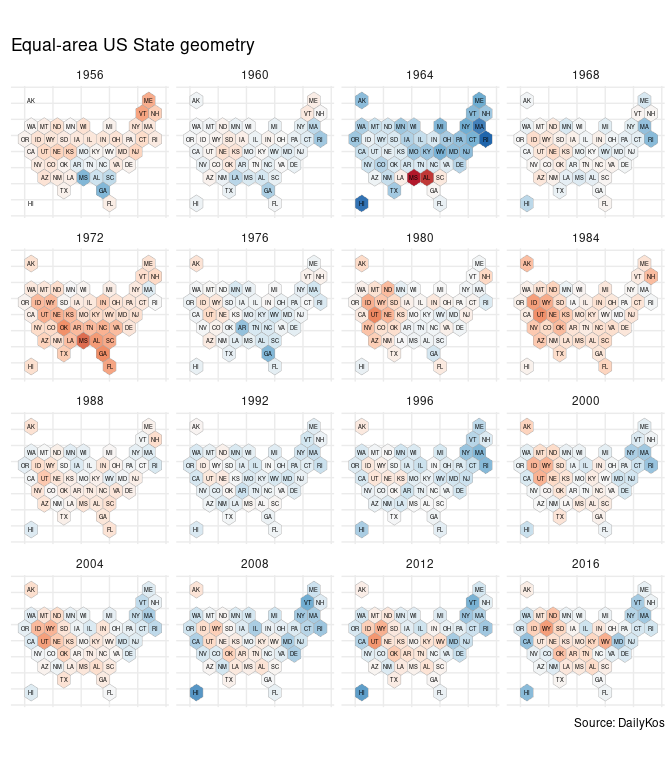
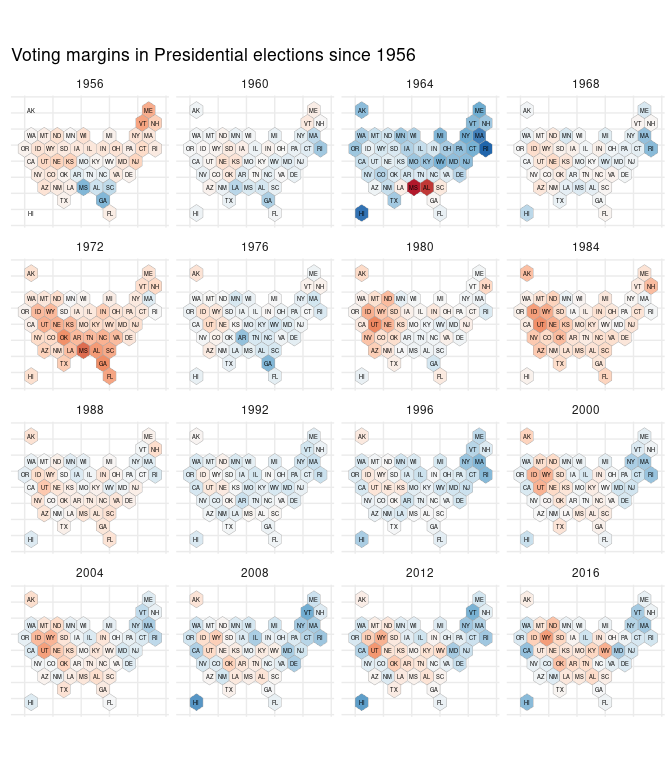
re

diff --git a/all-the-newness.md b/all-the-newness.md
@@ -6,9 +6,9 @@ American political data & R
 ![](all-the-newness_files/figure-markdown_github/collage1.png)
 
 **An R-based guide** to accessing, exploring & visualizing US political
-data utilizing a collection of open resources, including election
-returns for presidential and congressional races, lawmaker political
-ideologies, and congressional district demographics.
+data utilizing a collection of publicly available resources, including
+election returns for presidential and congressional races, lawmaker
+political ideologies, and congressional district demographics.
 
 Data used in this guide have been collated from [Daily
 Kos](https://www.dailykos.com/), [MIT Election Data and Science
@@ -30,8 +30,8 @@ work presented here can be reproduced in its entirety.
         -   [uspols](#uspols)
     -   [Historical presidential election
         results](#historical-presidential-election-results)
-        -   [V1 Margins of victory since
-            1956](#v1-margins-of-victory-since-1956)
+        -   [V1 Voting margins in Presidential elections since
+            1956](#v1-voting-margins-in-presidential-elections-since-1956)
         -   [V2 When each state last voted for a Democratic presidential
             nominee](#v2-when-each-state-last-voted-for-a-democratic-presidential-nominee)
         -   [V3 Presidential elections and vote shares and crosses of
@@ -61,15 +61,15 @@ work presented here can be reproduced in its entirety.
             Xers](#v12-introducing-millenials-and-gen-xers)
     -   [Congressional districts and the
         ACS](#congressional-districts-and-the-acs)
-        -   [V13 Profiling New Mexico 2nd
-            district](#v13-profiling-new-mexico-2nd-district)
-        -   [V14 SocioDems and margins of
-            victory](#v14-sociodems-and-margins-of-victory)
-        -   [V15 Some notes on rural
-            America](#v15-some-notes-on-rural-america)
-    -   [The White working class](#the-white-working-class)
+        -   [V13 Profiling congressional
+            districts](#v13-profiling-congressional-districts)
+        -   [V14 ACS variables and margins of
+            victory](#v14-acs-variables-and-margins-of-victory)
+    -   [America’s White working class](#america's-white-working-class)
         -   [V15 White working profiles](#v15-white-working-profiles)
         -   [V16 A working map](#v16-a-working-map)
+        -   [V17 White working class and rural
+            America](#v17-white-working-class-and-rural-america)
     -   [Lastly](#lastly)
 
 Quick preliminaries
@@ -190,8 +190,8 @@ vvo <- lapply(c('house', 'senate'), function(x) {
     filter(congress > 66 & chamber != 'President') })
 ```
 
-    ## [1] "/tmp/RtmpFuJnTA/Hall_members.csv"
-    ## [1] "/tmp/RtmpFuJnTA/Sall_members.csv"
+    ## [1] "/tmp/Rtmpv6DDsz/Hall_members.csv"
+    ## [1] "/tmp/Rtmpv6DDsz/Sall_members.csv"
 
 ``` r
 congress <- vvo %>%
@@ -221,11 +221,9 @@ congress <- vvo %>%
 > collates data from Daily Kos, MEDSL & Wikipedia in a uniform format.
 > **Importantly, package documentation details all data transformation
 > processes from raw data to package table**. So, if you take issue with
-> a data point, check out the documentation and let me know.
-
-> Why election return data are so nebulous from an accessibility
-> standpoint is absolutely beyond me. **This package should not have to
-> exist**.
+> a data point, check out the documentation and let me know. Why
+> election return data are so nebulous from an accessibility standpoint
+> is absolutely beyond me.
 
 ``` r
 library(devtools)
@@ -238,7 +236,12 @@ library(uspols)
 Historical presidential election results
 ----------------------------------------
 
-### V1 Margins of victory since 1956
+### V1 Voting margins in Presidential elections since 1956
+
+> Historical Presidential election results by state [via
+> Wikipedia](https://github.com/jaytimm/uspols#4-wikipedia-presidential-returns-by-state-1864-).
+> Equal-area state geometry via [Daily
+> Kos](https://docs.google.com/spreadsheets/d/1LrBXlqrtSZwyYOkpEEXFwQggvtR0bHHTxs9kq4kjOjw/edit#gid=1278876419).
 
 ``` r
 uspols::xsf_TileOutv10 %>%
@@ -261,8 +264,7 @@ uspols::xsf_TileOutv10 %>%
   scale_fill_distiller(palette = "RdBu", direction=-1) +
   facet_wrap(~year) +
   theme_minimal()+ theme_guide() +
-  labs(title = "Equal-area US State geometry",
-       caption = "Source: DailyKos")
+  labs(title = "Voting margins in Presidential elections since 1956")
 ```
 
 ![](all-the-newness_files/figure-markdown_github/unnamed-chunk-11-1.png)
@@ -600,7 +602,7 @@ Four generations of lawmakers
 
 > [Pew
 > Research](http://www.pewresearch.org/fact-tank/2018/04/11/millennials-largest-generation-us-labor-force/ft_15-05-11_millennialsdefined/)
-> generations.
+> generations:
 
 -   Millenials: 1981-1997
 -   Generation X: 1965 -1980
@@ -789,7 +791,8 @@ Congressional districts and the ACS
 
 > The US Census/American Community Survey (ACS) make counts/estimates
 > available by congressional district. The R package `tidycensus`
-> provides very clean access to census APIs.
+> provides very clean access to census APIs. Via super convenient ACS
+> *Data Profiles*.
 
 ``` r
 variable_list <-  c(bachelors_higher = 'DP02_0068P',
@@ -818,9 +821,11 @@ gen <-  tidycensus::get_acs(geography = 'congressional district',
   select(state_abbrev, district_code, variable, estimate, moe)
 ```
 
-### V13 Profiling New Mexico 2nd district
+### V13 Profiling congressional districts
 
-> A quick look at New Mexico’s 2nd district.
+> **Density plots** for 12 ACS variables per 435 US congressional
+> districts. Details for New Mexico’s 2nd district summarized in plot
+> below as dashed lines.
 
 ``` r
 base_viz <- gen %>%
@@ -850,7 +855,10 @@ base_viz +
 
 ![](all-the-newness_files/figure-markdown_github/unnamed-chunk-34-1.png)
 
-### V14 SocioDems and margins of victory
+### V14 ACS variables and margins of victory
+
+> A multi-panel summary of relationships between ACS variables and 2016
+> Trump margins.
 
 ``` r
 gen %>%
@@ -879,19 +887,15 @@ gen %>%
 
 ![](all-the-newness_files/figure-markdown_github/unnamed-chunk-35-1.png)
 
-### V15 Some notes on rural America
-
 ------------------------------------------------------------------------
 
-The White working class
------------------------
+America’s White working class
+-----------------------------
 
 > White working class formalized in US Census terms: Population 25 years
 > & older who (1) identify as both White & non-Hispanic and (2) have not
-> obtained a Bachelor’s degree.
-
-> Table C15002: Sex by educational attainment for the population 25
-> years and over.
+> obtained a Bachelor’s degree (or higher). Per Table C15002: **Sex by
+> educational attainment for the population 25 years and over**.
 
 ``` r
 white_ed_vars <- c(white_m_bach = 'C15002H_006',
@@ -905,9 +909,12 @@ white_ed_vars <- c(white_m_bach = 'C15002H_006',
                    all_pop = 'C15002_001')
 ```
 
-> Categories include: \* White with college degree, \* White without
-> college degree, \* Non-White with college degree, and \* Non-White
-> without college degree.
+> Categories include:
+
+-   White & non-Hispanic with college degree,
+-   White & non-Hispanic without college degree,
+-   Non-White and/or Hispanic with college degree, and
+-   Non-White and/or Hispanic college degree.
 
 ``` r
 white_ed <- tidycensus::get_acs(geography = 'congressional district',
@@ -1037,7 +1044,9 @@ ggplot() +
 
 ![](all-the-newness_files/figure-markdown_github/unnamed-chunk-41-1.png)
 
-–
+### V17 White working class and rural America
+
+------------------------------------------------------------------------
 
 Lastly
 ------
